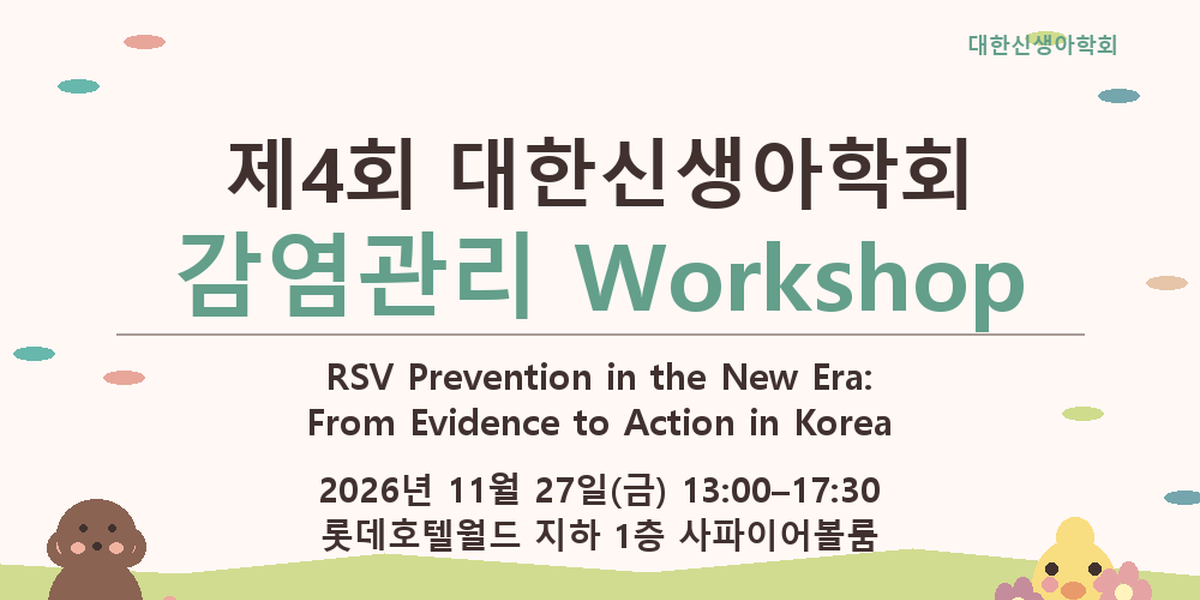
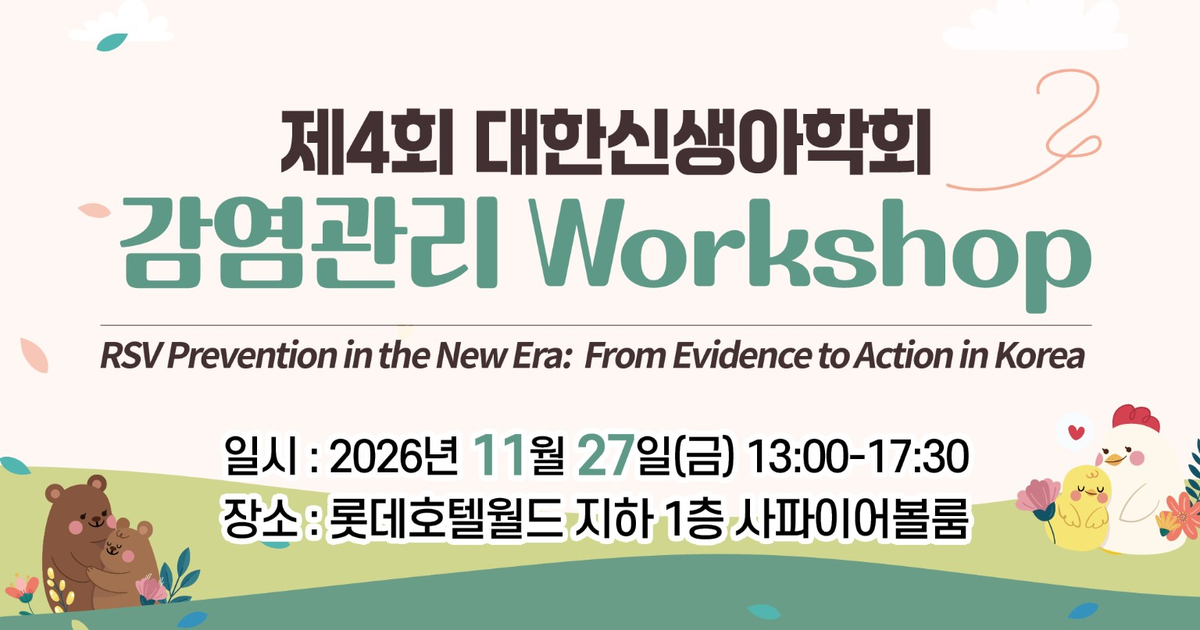
Use provided RSV flyer and social images with email-presign skill

diff --git a/email_261022_neonatology_rsv.html b/email_261022_neonatology_rsv.html
@@ -1,49 +1,41 @@
 <!DOCTYPE html>
-<html lang="ko">
+<html>
+
 <head>
-    <meta charset="UTF-8">
-    <meta http-equiv="Content-Type" content="text/html; charset=UTF-8">
-    <meta name="viewport" content="width=device-width,initial-scale=1.0">
-    <meta name="format-detection" content="telephone=no">
-    <title>제4회 대한신생아학회 감염관리 Workshop | 사전등록 안내</title>
-    <meta name="description" content="RSV Prevention in the New Era: From Evidence to Action in Korea. 2026년 11월 27일(금) 13:00~17:30, 롯데호텔월드 지하 1층 사파이어볼룸.">
-    <meta property="og:type" content="website">
-    <meta property="og:title" content="제4회 대한신생아학회 감염관리 Workshop">
-    <meta property="og:description" content="2026년 11월 27일(금) 13:00–17:30, 롯데호텔월드 지하 1층 사파이어볼룸 | 사전등록 안내">
-    <meta property="og:image" content="https://hyo-email.pages.dev/email_261022_neonatology_rsv_kakao.png">
-    <meta property="og:url" content="https://hyo-email.pages.dev/email_261022_neonatology_rsv.html">
-    <meta name="twitter:card" content="summary_large_image">
-    <meta name="twitter:title" content="제4회 대한신생아학회 감염관리 Workshop">
-    <meta name="twitter:description" content="RSV Prevention in the New Era | 2026.11.27 (금)">
-    <meta name="twitter:image" content="https://hyo-email.pages.dev/email_261022_neonatology_rsv_kakao.png">
+    <meta http-equiv="Content-Type" content="text/html; charset=utf-8" />
+    <meta name="viewport" content="width=device-width, initial-scale=1.0">
+    <!-- 카카오톡, 페이스북, 링크드인 등 공통 Open Graph -->
+    <meta property="og:type" content="website" />
+    <meta property="og:title" content="제4회 대한신생아학회 감염관리 Workshop" />
+    <meta property="og:description" content="RSV Prevention in the New Era: From Evidence to Action in Korea | 2026년 11월 27일(금) 13:00~17:30, 롯데호텔월드 지하 1층 사파이어볼룸" />
+    <!-- 소셜 이미지 링크 (Cloudflare Pages 절대 경로) -->
+    <meta property="og:image" content="https://hyo-email.pages.dev/email_261022_neonatology_rsv_kakao.png" />
+    <meta name="twitter:card" content="summary_large_image" />
+    <meta name="twitter:title" content="제4회 대한신생아학회 감염관리 Workshop" />
+    <meta name="twitter:description" content="RSV Prevention in the New Era: From Evidence to Action in Korea | 2026년 11월 27일(금) 13:00~17:30, 롯데호텔월드 지하 1층 사파이어볼룸" />
+    <meta name="twitter:image" content="https://hyo-email.pages.dev/email_261022_neonatology_rsv_kakao.png" />
+
+    <title>제4회 대한신생아학회 감염관리 Workshop</title>
 </head>
-<body style="margin:0;padding:0;background-color:#f7f5f0;color:#42342f;font-family:'Malgun Gothic',Arial,Helvetica,sans-serif;-webkit-text-size-adjust:100%;">
-    <div style="display:none;font-size:1px;line-height:1px;color:#f7f5f0;max-height:0;max-width:0;opacity:0;overflow:hidden;">
-      대한신생아학회 감염관리 Workshop 사전등록 안내 · 2026년 11월 27일(금), 롯데호텔월드 사파이어볼룸
+
+<body marginwidth="0" marginheight="0" style="margin:0; padding:0; background-color:#ffffff;">
+
+    <div style="width: 1000px; text-align: left; margin: 0 auto;">
+        <img src="https://hyo-email.pages.dev/email_261022_neonatology_rsv_main.png" width="1000" usemap="#image-map"
+            style="display: block; width: 1000px; height: auto; border: 0;" alt="제4회 대한신생아학회 감염관리 Workshop">
+        <map name="image-map">
+            <!-- 첨부된 세로 원본 387 x 1536 좌표를 1000px 본문 이미지로 비례 변환 -->
+            <area target="_blank" alt="사전등록 안내 바로가기" title="사전등록 안내 바로가기"
+                href="https://www.neonatology.or.kr/conference/seminar2/info.html?period=71" coords="750,2058,919,2265" shape="rect">
+        </map>
     </div>
-    <table role="presentation" cellspacing="0" cellpadding="0" border="0" width="100%" style="border-collapse:collapse;background-color:#f7f5f0;">
-        <tr><td align="center" style="padding:0 0 28px;">
-            <table role="presentation" cellspacing="0" cellpadding="0" border="0" width="1000" style="width:100%;max-width:1000px;border-collapse:collapse;">
-                <tr><td>
-                    <img src="https://hyo-email.pages.dev/email_261022_neonatology_rsv_main.png" width="1000" usemap="#image-map" alt="제4회 대한신생아학회 감염관리 Workshop: 2026년 11월 27일 금요일 13:00부터 17:30까지, 롯데호텔월드 지하 1층 사파이어볼룸. 행사 소개, 프로그램, 사전등록 및 오시는 길 안내." style="border:0;display:block;width:100%;max-width:1000px;height:auto;">
-                    <map name="image-map" id="image-map">
-                        <!-- 원본 고정폭 1000px 기준. 작은 모바일 이메일 클라이언트는 아래 텍스트 CTA를 사용합니다. -->
-                        <area shape="rect" coords="780,2174,968,2399" href="https://www.neonatology.or.kr/conference/seminar2/info.html?period=71" target="_blank" alt="대한신생아학회 사전등록 안내 페이지 열기" title="사전등록 안내 바로가기">
-                    </map>
-                </td></tr>
-                <tr><td align="center" style="background-color:#ffffff;padding:28px 16px 12px;">
-                    <table role="presentation" border="0" cellspacing="0" cellpadding="0"><tr>
-                        <td align="center" bgcolor="#598f7b" style="border-radius:6px;background-color:#598f7b;">
-                            <a href="https://www.neonatology.or.kr/conference/seminar2/info.html?period=71" target="_blank" style="display:inline-block;padding:17px 35px;border:1px solid #598f7b;border-radius:6px;color:#ffffff;font-size:21px;font-weight:bold;text-decoration:none;line-height:1.25;">사전등록 안내 바로가기 &rarr;</a>
-                        </td>
-                    </tr></table>
-                </td></tr>
-                <tr><td align="center" style="background:#fff;padding:9px 22px 26px;font-size:14px;line-height:1.6;color:#616161;">
-                    이미지가 보이지 않거나 버튼이 작동하지 않으면
-                    <a href="https://www.neonatology.or.kr/conference/seminar2/info.html?period=71" target="_blank" style="font-weight:bold;color:#2b796c;text-decoration:underline;">여기에서 사전등록 안내를 확인하세요.</a>
-                </td></tr>
-            </table>
-        </td></tr>
-    </table>
+
+    <div style="width: 1000px; margin: 12px auto; text-align: left; font-family: -apple-system, BlinkMacSystemFont, 'Segoe UI', Roboto, Helvetica, Arial, sans-serif; font-size: 14px; color: #666; word-break: keep-all; line-height: 1.6;">
+        이미지가 클릭되지 않나요?
+        <a href="https://www.neonatology.or.kr/conference/seminar2/info.html?period=71"
+            target="_blank" style="color: #0b5099; font-weight: bold; text-decoration: underline; margin-left: 6px;">[사전등록 바로가기]</a>
+    </div>
+
 </body>
+
 </html>
